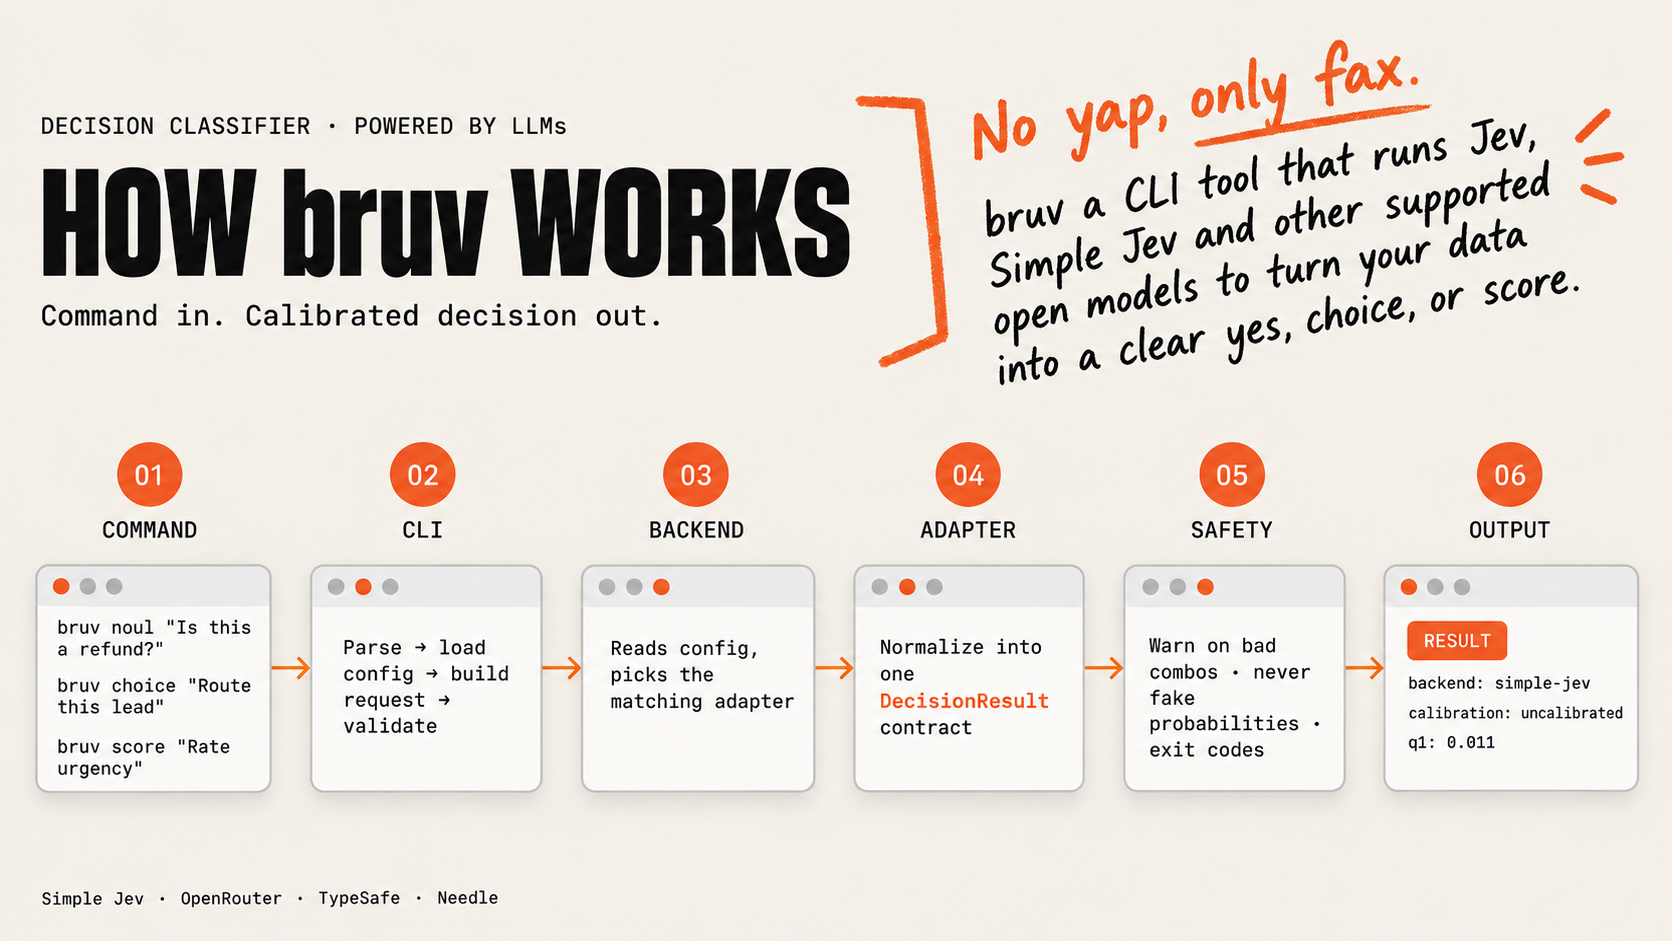
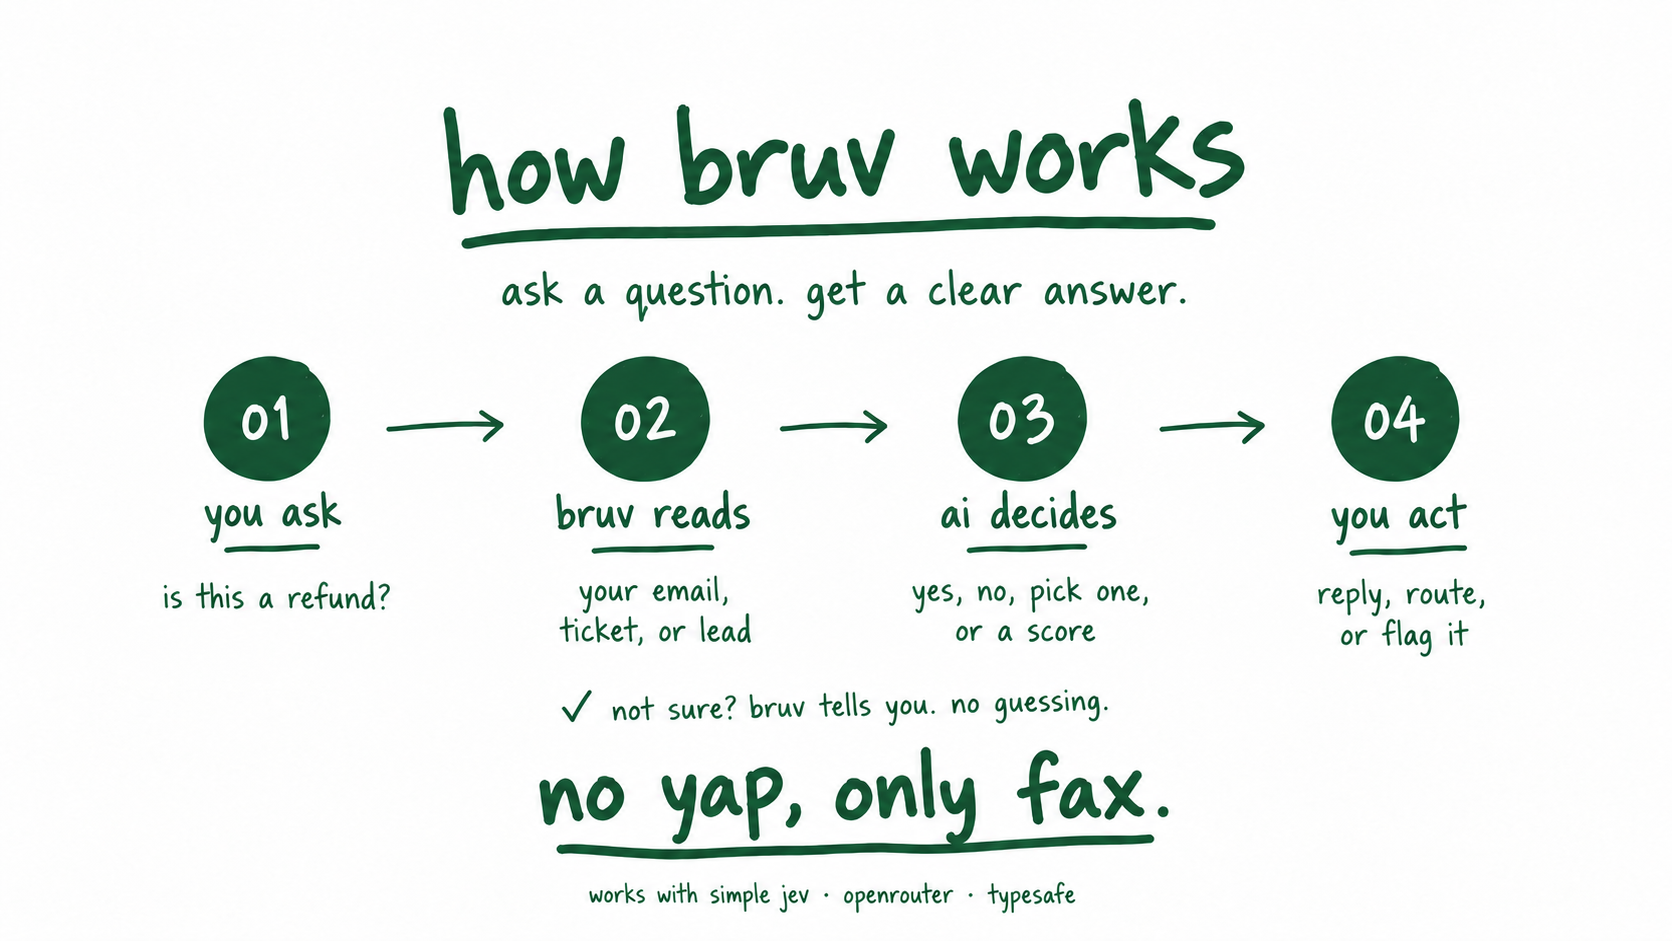
docs(readme): replace ASCII how-it-works diagram with simplified image

diff --git a/README.md b/README.md
@@ -19,93 +19,8 @@ The tagline is brand voice, not an accuracy guarantee.
 
 ## How bruv works
 
-```text
-                         HOW `bruv` WORKS
-┌─────────────────────────────────────────────────────────────────────────────┐
-│  1. USER COMMAND                                                            │
-│                                                                             │
-│  bruv noul   "Is this a refund?" --state "I want my money back"             │
-│  bruv choice "Route this lead" --option sales --option support              │
-│  bruv score  "Rate urgency" --level low --level medium --level high         │
-│  bruv eval request.json                                                     │
-└──────────────────────────────────┬──────────────────────────────────────────┘
-                                   │
-                                   ▼
-┌─────────────────────────────────────────────────────────────────────────────┐
-│  2. CLI                                                                     │
-│                                                                             │
-│  Parse command → load config → build canonical request → validate input     │
-│                                                                             │
-│      state + questions + criteria/options + selected model/backend          │
-└──────────────────────────────────┬──────────────────────────────────────────┘
-                                   │
-                                   ▼
-┌─────────────────────────────────────────────────────────────────────────────┐
-│  3. BACKEND FACTORY                                                         │
-│                                                                             │
-│  Reads configured backend and selects matching adapter                      │
-└───────────┬─────────────┬─────────────┬─────────────┬───────────────────────┘
-            │             │             │             │
-            ▼             ▼             ▼             ▼
-   ┌────────────────┐ ┌──────────┐ ┌──────────┐ ┌──────────────────┐
-   │ Simple Jev     │ │OpenRouter│ │ TypeSafe │ │ Needle / RLCD    │
-   │ local or HTTP  │ │Decisions │ │ hosted   │ │ local models     │
-   │ uncalibrated   │ │calibrated│ │calibrated│ │ calibrated       │
-   └───────┬────────┘ └────┬─────┘ └────┬─────┘ └────────┬─────────┘
-           │               │            │                │
-           ▼               ▼            ▼                ▼
-   ┌────────────────┐   Typed HTTP requests       Local model inference
-   │ Managed runtime│
-   │                │
-   │ verify install │
-   │ resume setup   │
-   │ check disk     │
-   │ start server   │
-   │ load model     │
-   │ health check   │
-   └───────┬────────┘
-           │
-           ▼
-   Simple Jev classifier
-           │
-           └──────────────────┬──────────────────────────┘
-                              │
-                              ▼
-┌─────────────────────────────────────────────────────────────────────────────┐
-│  4. PROVIDER ADAPTER                                                        │
-│                                                                             │
-│  Provider response → validate schema → normalize into one bruv contract     │
-│                                                                             │
-│  DecisionResult                                                             │
-│  ├── backend                                                                │
-│  ├── model                                                                  │
-│  ├── calibrated: true | false                                               │
-│  ├── answers                                                                │
-│  └── usage / metadata                                                       │
-└──────────────────────────────────┬──────────────────────────────────────────┘
-                                   │
-                                   ▼
-┌─────────────────────────────────────────────────────────────────────────────┐
-│  5. SAFETY + HONESTY                                                        │
-│                                                                             │
-│  • Warn about non-discriminating model/mode combinations                    │
-│  • Never describe uncalibrated scores as real-world probabilities           │
-│  • Apply fail-under / abstain gates when requested                           │
-│  • Return meaningful exit codes for automation                              │
-└──────────────────────────────────┬──────────────────────────────────────────┘
-                                   │
-                                   ▼
-┌─────────────────────────────────────────────────────────────────────────────┐
-│  6. OUTPUT                                                                  │
-│                                                                             │
-│  Human terminal output | JSON | selected field | shell exit code            │
-│                                                                             │
-│  backend: simple-jev                                                       │
-│  model: Qwen/Qwen3.5-0.8B                                                  │
-│  calibration: uncalibrated                                                  │
-│  q1: 0.011                                                                  │
-└─────────────────────────────────────────────────────────────────────────────┘
-```
+![How bruv works](docs/assets/bruv-how-it-works.png)
+
 
 Setup flow:
 
